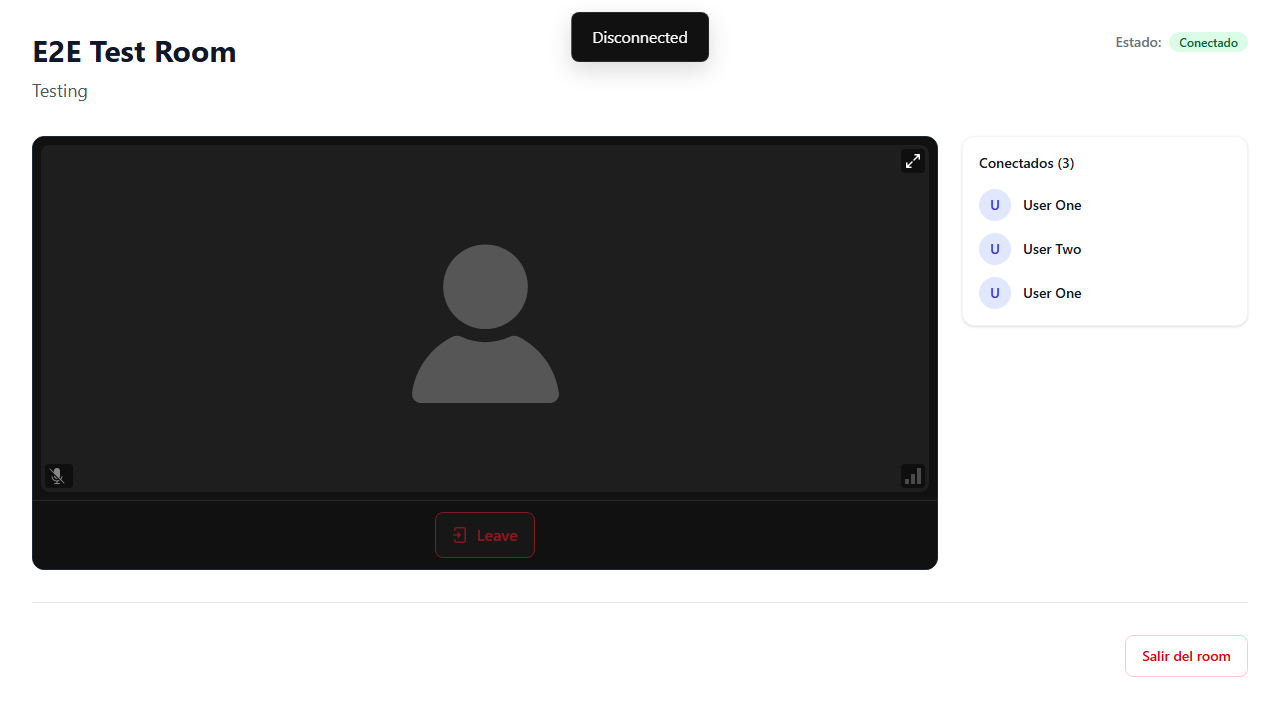
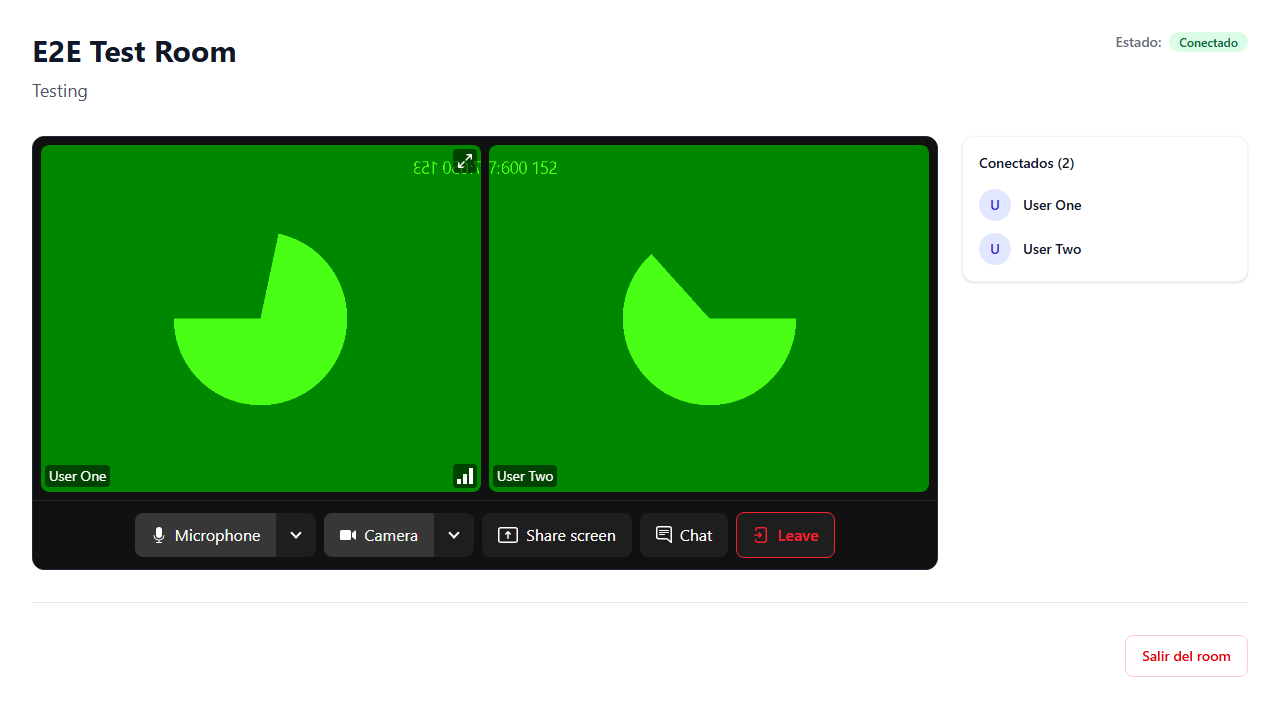
docs: cerrar BUG 2 y BUG 3 del informe E2E
Las capturas de junio mostraban el toast "Disconnected" sobre el grid; las
nuevas, vídeo bidireccional con los dos participantes y el recuento correcto.

Se documenta la causa real y, sobre todo, por qué el fallo sobrevivió dos meses,
que es la parte reutilizable: la comprobación que debía detectarlo miraba el
endpoint de token, no la alcanzabilidad del servidor. También queda escrito que
la hipótesis de las credenciales de Cloud caducadas era irrelevante, porque el
proyecto no apuntaba a Cloud.

Se anotan las dos incidencias de entorno que bloquearon la reejecución —el
servicio `db` del override y el `pwdlib` sin instalar— porque quien retome el
proyecto se las va a encontrar igual.

diff --git a/docs/reports/07-e2e-report.md b/docs/reports/07-e2e-report.md
@@ -1,9 +1,11 @@
 # Informe E2E — Prompt 7 (Rooms + WebSocket + LiveKit)
 
-**Fecha de ejecución:** ~2 junio 2026 (según `mtime` de las capturas: 2026-06-02 17:30)
+**Primera ejecución:** ~2 junio 2026 (según `mtime` de las capturas originales: 2026-06-02 17:30)
 **Fecha del informe:** 31 julio 2026 — redactado a posteriori sobre la evidencia conservada
-**Ejecutado por:** Google Antigravity, en local (Windows)
-**Resultado:** ⚠ Parcial — la presencia por WebSocket funciona, pero con dos bugs
+**Reejecución:** 31 julio 2026, tras el Bloque 0 del Prompt 8
+**Ejecutado por:** Google Antigravity (junio) · Claude Code (reejecución de julio), en local (Windows)
+**Resultado:** ✅ Verde — los tres bugs cerrados. Las capturas de este informe son las de la
+reejecución de julio; las de junio, con el vídeo caído, quedan descritas en el BUG 2.
 
 ---
 
@@ -18,8 +20,8 @@ Verificar en navegador real, con dos usuarios simultáneos, que el Prompt 7 entr
 ## Cómo reproducirlo
 
 ```bash
-docker compose up -d                                   # Postgres + Redis
-cd backend && uvicorn app.main:app --reload            # :8000
+docker compose up -d postgres redis livekit            # Postgres + Redis + LiveKit
+cd backend && pip install -e ".[dev]" && uvicorn app.main:app --reload   # :8000
 cd web && npm run dev                                  # :5173
 
 pip install playwright httpx && playwright install chromium
@@ -27,27 +29,40 @@ python scripts/e2e/seed_two_users.py                   # crea user1/user2 y el r
 python scripts/e2e/browser_two_users.py                # el E2E propiamente dicho
 ```
 
+No uses `docker compose up -d` a secas si vas a levantar el backend con `uvicorn`: el
+servicio `backend` del compose publica también el `:8000` y chocan.
+
 `browser_two_users.py` levanta dos contextos aislados de Chromium (localStorage
-separado), loguea a `user1@test.com` y `user2@test.com`, crea el room, mete a los
-dos y captura pantalla de ambos.
+separado, cámara y micrófono concedidos con dispositivos falsos), loguea a
+`user1@test.com` y `user2@test.com`, crea el room, mete a los dos y captura pantalla
+de ambos.
 
 ## Evidencia
 
+Capturas de la reejecución del 31/07/2026, ya con LiveKit conectado:
+
 | Captura | Qué muestra |
 |---|---|
-| [`docs/evidence/prompt-07/user1_room.png`](../evidence/prompt-07/user1_room.png) | Vista de user1 en "E2E Test Room" |
-| [`docs/evidence/prompt-07/user2_room.png`](../evidence/prompt-07/user2_room.png) | Vista de user2 en el mismo room |
+| [`docs/evidence/prompt-07/user1_room.png`](../evidence/prompt-07/user1_room.png) | user1 en "E2E Test Room": dos tiles de vídeo (*User One* y *User Two*), sin toast de error, `Conectados (2)` |
+| [`docs/evidence/prompt-07/user2_room.png`](../evidence/prompt-07/user2_room.png) | user2 en el mismo room, con la vista simétrica |
+
+El patrón verde de los tiles es el dispositivo de vídeo falso de Chromium
+(`--use-fake-device-for-media-stream`), no un fallo de render.
 
 ## Resultados
 
-| Check | Resultado |
-|---|---|
-| Badge WS "Conectado" en user1 | ✅ PASS |
-| Badge WS "Conectado" en user2 | ✅ PASS |
-| user1 ve a *User Two* en el MemberList | ✅ PASS |
-| user2 ve a *User One* en el MemberList | ✅ PASS |
-| Recuento de miembros correcto | 🔴 **FAIL** — ver BUG 1 |
-| `RoomVideoGrid` conectado a LiveKit | 🔴 **FAIL** — ver BUG 2 |
+| Check | Junio 2026 | Julio 2026 |
+|---|---|---|
+| Badge WS "Conectado" en user1 | ✅ PASS | ✅ PASS |
+| Badge WS "Conectado" en user2 | ✅ PASS | ✅ PASS |
+| user1 ve a *User Two* en el MemberList | ✅ PASS | ✅ PASS |
+| user2 ve a *User One* en el MemberList | ✅ PASS | ✅ PASS |
+| Recuento de miembros correcto | 🔴 FAIL — BUG 1 | ✅ PASS — `Conectados (2)` |
+| `RoomVideoGrid` conectado a LiveKit (user1) | 🔴 FAIL — BUG 2 | ✅ PASS |
+| `RoomVideoGrid` conectado a LiveKit (user2) | 🔴 FAIL — BUG 2 | ✅ PASS |
+
+Exit code de la reejecución: **0**, y ahora significa algo — hasta el Bloque 0 del Prompt 8 el
+check de vídeo no afectaba al exit code (BUG 3).
 
 El objetivo principal del Prompt 7 —presencia bidireccional en tiempo real— se
 cumple. El WebSocket conecta, autentica por token en query param y propaga
@@ -94,44 +109,81 @@ en dos pestañas.
 
 ---
 
-## BUG 2 — LiveKit muestra "Disconnected" 🔴 ABIERTO
+## BUG 2 — LiveKit muestra "Disconnected" ✅ CORREGIDO
 
 **Severidad:** Alta
-**Estado:** pendiente
+**Estado:** corregido el 31/07/2026, Bloque 0 del Prompt 8
 
-Ambas capturas muestran el toast **"Disconnected"** sobre el grid de vídeo. En la de
-user2 aparece además el botón "Start Audio" sin resolver. El componente renderiza
-—no rompe la página, el tile del participante se dibuja— pero la sala de LiveKit no
-queda conectada.
+En las capturas de junio, ambas pantallas mostraban el toast **"Disconnected"** sobre el
+grid de vídeo, y la de user2 además el botón "Start Audio" sin resolver. El componente
+renderizaba —no rompía la página, el tile del participante se dibujaba— pero la sala de
+LiveKit nunca quedaba conectada.
 
-**Hipótesis a descartar, por orden de coste:**
+**Causa raíz: no había ningún servidor LiveKit.**
 
-1. Credenciales de LiveKit ausentes o caducadas en `backend/.env`
-   (`LIVEKIT_API_KEY`, `LIVEKIT_API_SECRET`, `LIVEKIT_URL`)
-2. `VITE_LIVEKIT_URL` apuntando a un servidor que no está levantado
-3. TTL del token expirado entre que se emite y el cliente lo usa
-4. Permisos de cámara/micrófono en Chromium headless — Playwright los deniega por
-   defecto; hace falta `permissions=["camera", "microphone"]` en `new_context()`,
-   o `--use-fake-device-for-media-stream`
+`backend/.env` apuntaba a `LIVEKIT_URL=http://localhost:7880` con `LIVEKIT_API_KEY=devkey`
+y `LIVEKIT_API_SECRET=secret` — los tres valores por defecto de `livekit-server --dev`.
+Pero `docker-compose.yml` solo declaraba `postgres`, `redis` y `backend`: **el servidor
+al que apuntaba esa configuración no existía en ninguna parte del proyecto**. Mientras
+tanto el README, el ADR 001 y `.env.example` documentaban LiveKit Cloud
+(`wss://<proyecto>.livekit.cloud`). Alguien dejó a medias una configuración local que
+además contradecía la documentada, y nadie levantó nunca ese servidor.
 
-La 4 es la más probable dado que el E2E corre headless, y explicaría por qué el
-tile aparece en gris con el icono de avatar. **Descartarla antes de tocar código.**
+Cadena de fallo medida el 31/07/2026, antes del arreglo:
 
-**Cómo diagnosticarlo:**
+| Eslabón | Resultado |
+|---|---|
+| `POST /rooms/{id}/livekit-token` | **200**, token bien formado |
+| Firma del JWT | HS256, `iss: devkey` |
+| `url` devuelta al cliente | `http://localhost:7880` |
+| Conexión TCP a `localhost:7880` | **`ConnectionRefusedError` (WinError 10061)** |
 
-```bash
-python scripts/e2e/check_livekit_token.py    # ¿el backend emite un token válido?
-```
+`RoomVideoGrid` pasa esa `url` tal cual a `<LiveKitRoom serverUrl>`, `livekit-client` la
+convierte a `ws://localhost:7880` mediante `toWebsocketUrl()` y la conexión se rechaza.
 
-y después reproducir a mano en dos navegadores reales, que sí piden permisos.
+**Por qué sobrevivió dos meses.** `get_livekit_service()` solo comprueba que las tres
+variables no estén vacías; nunca valida que el servidor sea alcanzable. El endpoint
+respondía 200 y `check_livekit_token.py` imprimía `[PASS] LiveKit token issued
+successfully` con el vídeo caído. La herramienta de diagnóstico era ciega a este fallo.
+
+**Nota sobre las hipótesis del plan del Prompt 8.** La hipótesis 1 (credenciales de
+LiveKit Cloud caducadas por inactividad) era irrelevante: el proyecto no apuntaba a Cloud.
+La hipótesis 2 dio positivo, pero no en la forma prevista — `RoomVideoGrid` **no** lee
+ningún `VITE_LIVEKIT_URL`, coge la URL de la respuesta del backend, y el cableado del
+cliente era correcto; lo que estaba mal era el destino.
+
+**Corrección aplicada.**
+
+- Servicio `livekit` (`livekit/livekit-server:v1.12.0`) en `docker-compose.yml`, en modo
+  dev y con `LIVEKIT_KEYS="devkey: secret"`, que casa con el `backend/.env` existente.
+- `NODE_IP=127.0.0.1`. Sin esto el servidor anuncia la IP del contenedor como candidato
+  ICE, y Docker Desktop no enruta esa red desde el host: la señalización conectaría pero
+  no habría medio.
+- `UDP_PORT=7882` para multiplexar WebRTC en un solo puerto. Publicar el rango por
+  defecto 50000-60000 en Docker Desktop levanta un `docker-proxy` por puerto y tarda
+  minutos en arrancar.
+
+Verificado en dos niveles antes de tocar el frontend: el servidor acepta el token que
+emite el backend (`GET /rtc/validate` → **200 `success`**), y el E2E muestra vídeo
+bidireccional real — cada usuario ve su tile y el del otro, con el patrón del dispositivo
+falso de Chromium. Que el medio fluya en ambos sentidos confirma que los candidatos ICE
+son alcanzables, no solo que la señalización conecta.
+
+**Defecto secundario, real pero no causante.** `browser_two_users.py` creaba los contextos
+con `new_context()` sin permisos y lanzaba Chromium sin dispositivos falsos, así que
+headless denegaba cámara y micrófono. **No era la causa** —no había servidor al que
+conectarse—, pero habría bloqueado la publicación de tracks en cuanto lo hubiera. Se
+corrigió a la vez: `permissions=["camera", "microphone"]` y
+`--use-fake-device-for-media-stream` / `--use-fake-ui-for-media-stream`.
 
 ---
 
-## BUG 3 — El E2E puede dar falso verde 🟡 ABIERTO
+## BUG 3 — El E2E puede dar falso verde ✅ CORREGIDO
 
 **Severidad:** Media
+**Estado:** corregido el 31/07/2026, Bloque 0 del Prompt 8
 
-`browser_two_users.py` contiene:
+`browser_two_users.py` contenía:
 
 ```python
 else:
@@ -139,25 +191,56 @@ else:
     results["video_grid_no_error"] = True  # Don't fail for this
 ```
 
-y el `exit code` solo depende de los cuatro checks de WS y presencia:
+Todas las ramas del check acababan en `True`, y el `exit code` solo dependía de los cuatro
+checks de WS y presencia. Es decir: **el script salió con código 0 en la ejecución de junio
+pese al BUG 2.** Un E2E que no falla cuando el vídeo está caído no sirve como puerta de
+calidad.
 
-```python
-critical_pass = all([
-    results["ws_badge_user1"], results["ws_badge_user2"],
-    results["member_list_user1_sees_user2"], results["member_list_user2_sees_user1"],
-])
-```
+**Corrección aplicada.** El check de vídeo se reescribió y ahora `video_user1` y
+`video_user2` entran en `critical_pass`.
 
-Es decir: **el script pudo salir con código 0 en esta misma ejecución pese al BUG 2.**
-Un E2E que no falla cuando el vídeo está caído no sirve como puerta de calidad.
-Al arreglar el BUG 2, hacer crítico el check de LiveKit.
+Lo importante es *qué* se comprueba. El check anterior miraba el DOM, y eso no vale aquí:
+como dice el propio BUG 2, **el tile del participante se dibujaba igual con la sala
+desconectada**, así que contar tiles habría vuelto a dar verde con el vídeo roto. El check
+nuevo observa el **WebSocket contra el `:7880`** vía `page.on("websocket")` —exactamente
+el transporte que fallaba— y exige que se abra, no dé `socketerror` y no se cierre. El
+toast de estado y el recuento de tiles quedan como señales secundarias. El WS de presencia
+del backend va por el `:8000`, así que filtrar por puerto los distingue.
+
+---
+
+## Incidencias de entorno encontradas en la reejecución
+
+No son bugs de producto, pero costaron tiempo y quien retome el proyecto se los va a
+encontrar:
+
+- **`docker compose up -d` no arrancaba.** `docker-compose.override.yml` declaraba un
+  servicio `db:` cuando en el compose base se llama `postgres:`, así que Compose intentaba
+  crear un servicio sin imagen y abortaba con `service "db" has neither an image nor a
+  build context specified`. El fichero está en `.gitignore`, por eso los comandos de
+  `CLAUDE.md` sí funcionaban "en un clon limpio" — allí el override no existe. Renombrado
+  a `postgres:`.
+- **`ModuleNotFoundError: No module named 'pwdlib'`.** El intérprete de la máquina tenía
+  el set de dependencias anterior a `5b050ad` (`passlib` + `bcrypt` instalados, `pwdlib` y
+  `argon2` no). El código migró a `pwdlib` con Argon2id y el entorno no se resincronizó.
+  Se arregla con `pip install -e ".[dev]"` desde `backend/`. Los usuarios seed de junio
+  conservan hash bcrypt (`$2b$12$`) y siguen entrando gracias al `BcryptHasher` de la
+  tupla, tal como estaba previsto.
 
 ---
 
 ## Conclusión
 
-El Prompt 7 se da por **entregado con reservas**: la funcionalidad diferencial de la
-fase (presencia en tiempo real por WebSocket) funciona y está cubierta por tests. El
-BUG 1 queda cerrado. El BUG 2 bloquea la parte de vídeo y debe resolverse **antes**
-del Prompt 8, porque la UI del Pomodoro sincronizado se monta sobre el mismo
-`RoomDetailPage` y conviene no acumular dos capas de fallo en la misma pantalla.
+El Prompt 7 queda **entregado y en verde**, ya sin reservas. La funcionalidad diferencial
+de la fase —presencia en tiempo real por WebSocket— funciona y está cubierta por tests, y
+los tres bugs están cerrados: el BUG 1 en `c530db5`, y el BUG 2 y el BUG 3 en el Bloque 0
+del Prompt 8.
+
+La lección que conviene no perder es la del BUG 2: el fallo sobrevivió dos meses no porque
+fuera sutil, sino porque **la comprobación que debía detectarlo miraba el sitio
+equivocado**. El endpoint de token respondía 200 y el script de diagnóstico lo daba por
+bueno, cuando lo que estaba roto era la alcanzabilidad del servidor, que nadie comprobaba.
+De ahí que el check nuevo observe el transporte y no el DOM.
+
+Con esto, el Bloque 1 del Prompt 8 puede montar la UI del Pomodoro sobre un
+`RoomDetailPage` limpio, que era la condición que ponía el plan.

diff --git a/BACKLOG.md b/BACKLOG.md
@@ -28,7 +28,10 @@ Ver el detalle en [`docs/reports/00-inventario-retoma-2026-07-31.md`](docs/repor
 
 ### 🔴 Bloqueantes
 
-- [ ] **LiveKit muestra "Disconnected" en el E2E** — ver
+- [x] ~~**LiveKit muestra "Disconnected" en el E2E**~~ — no había servidor LiveKit:
+      `backend/.env` apuntaba a `localhost:7880` con las claves por defecto de
+      `livekit-server --dev`, pero ese servicio no existía en `docker-compose.yml`.
+      Añadido en el Bloque 0 del Prompt 8. Ver
       [`docs/reports/07-e2e-report.md`](docs/reports/07-e2e-report.md), BUG 2.
 - [x] ~~`passlib` incompatible con `bcrypt` ≥ 4.1~~ — migrado a `pwdlib` con
       Argon2id en `5b050ad`.
@@ -47,8 +50,9 @@ Ver el detalle en [`docs/reports/00-inventario-retoma-2026-07-31.md`](docs/repor
       reconstruye partiendo `file_url` por `/`, lo que acopla el servicio al
       formato de URL de `LocalDiskStorage`; un adapter S3 con URLs firmadas
       rompería el borrado.
-- [ ] **El E2E puede dar falso verde**: el check de LiveKit está marcado como no
-      crítico y no afecta al exit code.
+- [x] ~~**El E2E puede dar falso verde**~~ — `video_user1` y `video_user2` entran
+      en `critical_pass` desde el Bloque 0 del Prompt 8, y el check observa el
+      WebSocket contra el `:7880` en vez del DOM.
 - [x] ~~`ruff check` con 261 errores~~ — en verde desde `f721127`, con `ruff`
       acotado a `>=0.14,<0.15` para que no vuelva a romperse solo.
 - [x] ~~No existe `CLAUDE.md` en la raíz~~ — creado el 31/07/2026 con reglas
